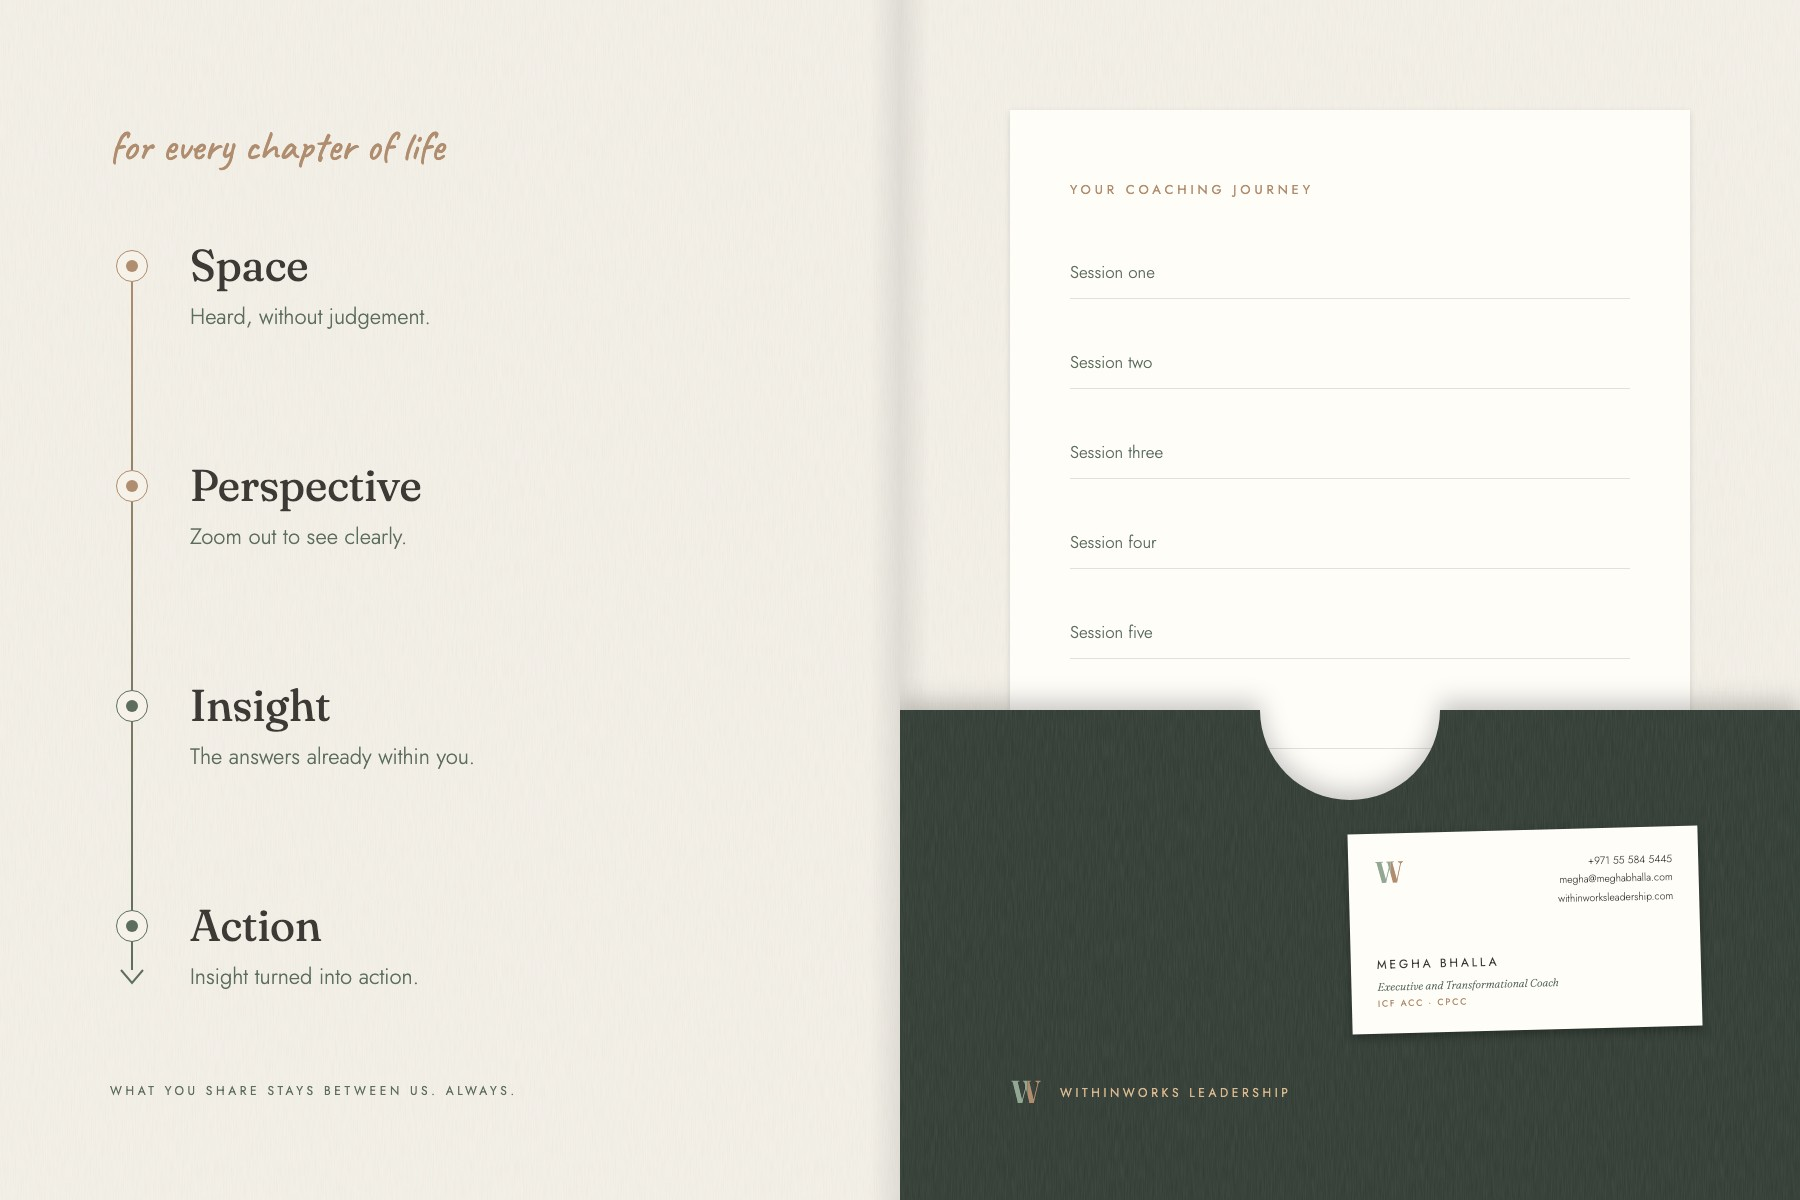
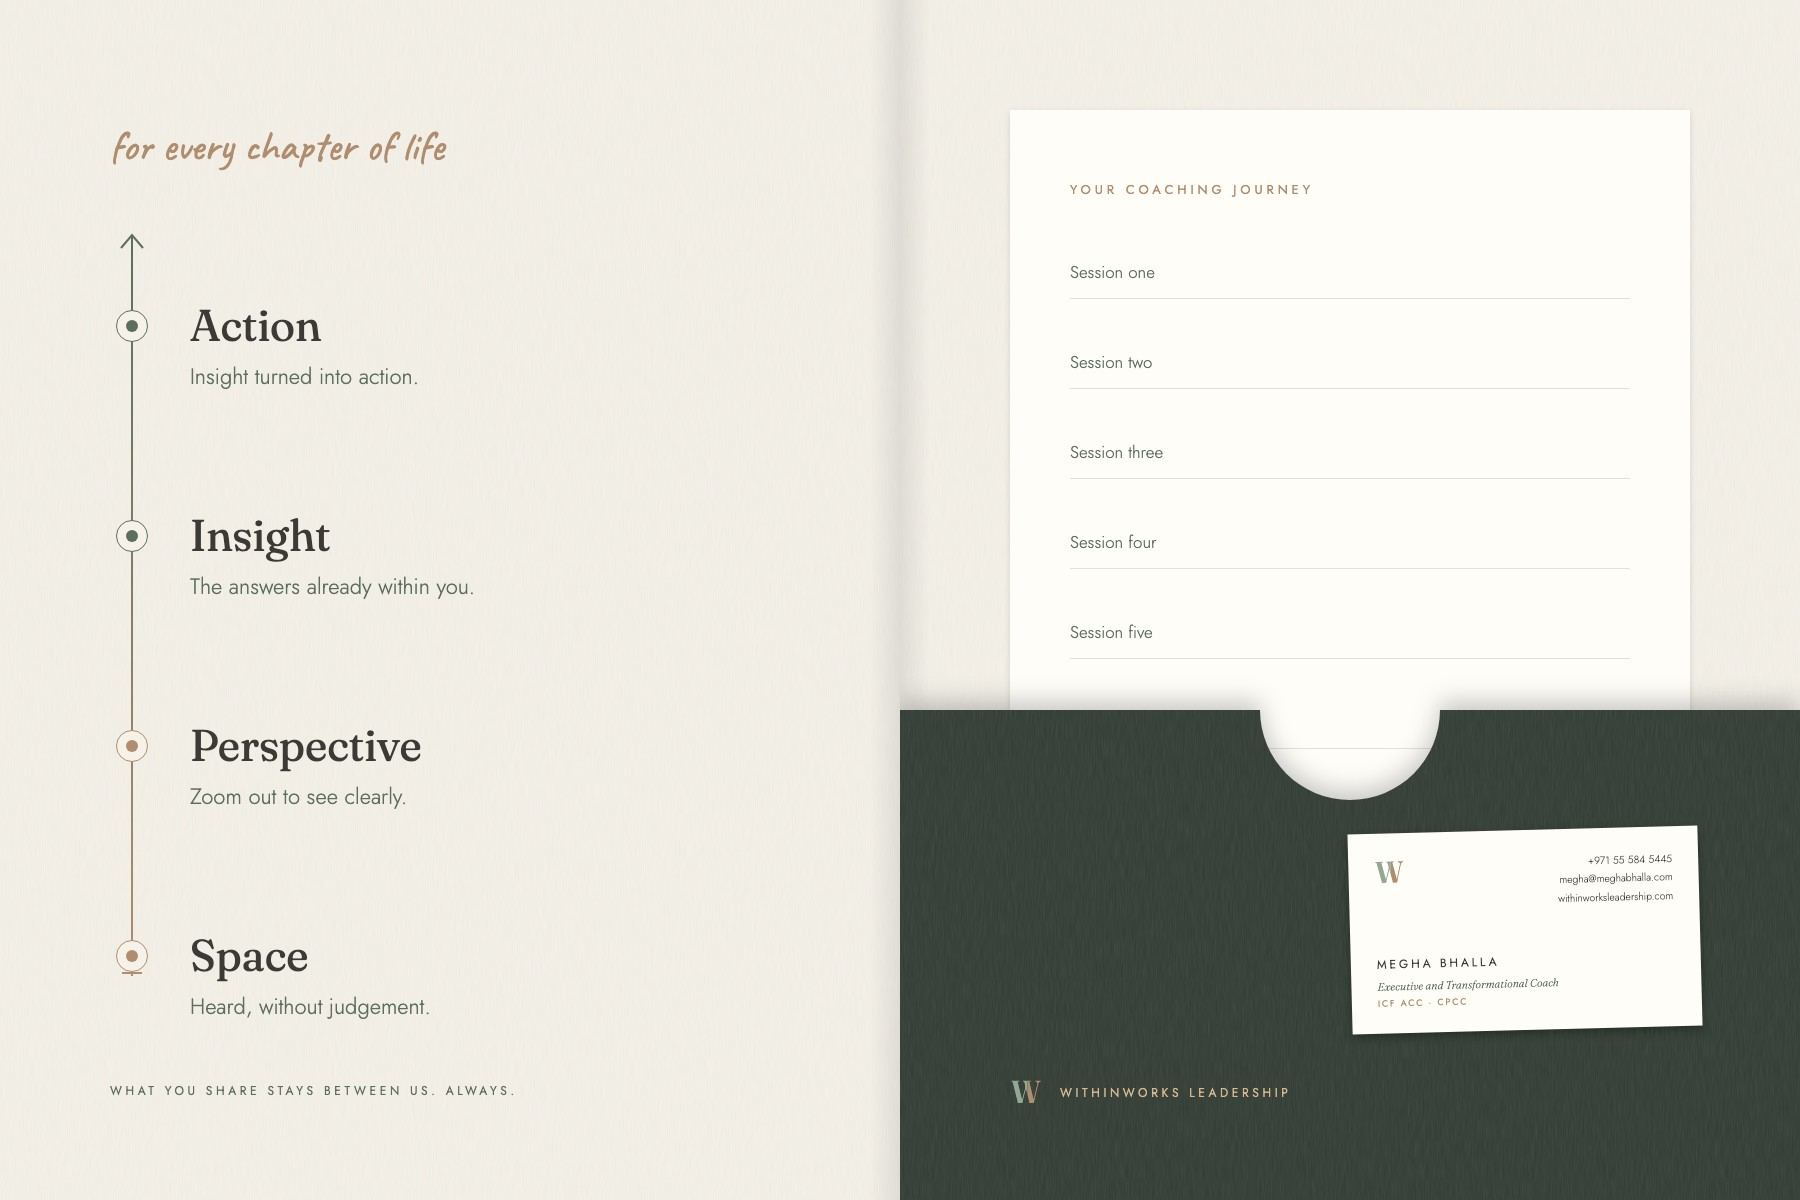
Printables: journey runs from the ground up

diff --git a/printables-test.html b/printables-test.html
@@ -19,14 +19,14 @@
 <header class="top"><div class="shell">
 <a class="brand" href="./"><svg class="mark"><use href="#ww"/></svg><span><b>WithinWorks</b><small>The Brain</small></span></a><a class="crumb" href="./">&larr; Brain</a>
 </div></header>
-<section class="page-hero"><div class="shell"><p class="eyebrow">Printables</p><h1>For the <em>hand</em></h1><p class="lede">A folder for client meetings and a small journal for the sessions. First look, before print files.</p></div></section><section><div class="shell"><div class="card" style="padding:0;overflow:hidden;margin-bottom:28px"><img src="printables/fm-a.jpg?v=1794315065" alt="Folder A, The path: front and back" style="width:100%;display:block">
-<div style="padding:22px 26px"><h3>Folder A, The path: front and back</h3><p>Front: a die-cut S-curve flap opens onto a pearl-green layer; the W and name in gold foil. Back: her words with her name and credentials, the Instagram and website QR codes, and her contact details.</p></div></div><div class="card" style="padding:0;overflow:hidden;margin-bottom:28px"><img src="printables/fi-a.jpg?v=1794315065" alt="Folder A, inside" style="width:100%;display:block">
-<div style="padding:22px 26px"><h3>Folder A, inside</h3><p>The journey from her website on the left: space, perspective, insight, action. On the right, a session sheet and a pocket whose wave edge echoes the front, with a slot for her card.</p></div></div><div class="card" style="padding:0;overflow:hidden;margin-bottom:28px"><img src="printables/fm-b.jpg?v=1794315065" alt="Folder B, The window: front and back" style="width:100%;display:block">
-<div style="padding:22px 26px"><h3>Folder B, The window: front and back</h3><p>Front: an arched window cut into the cover shows her question on the page inside. Back: the same detail system.</p></div></div><div class="card" style="padding:0;overflow:hidden;margin-bottom:28px"><img src="printables/fi-b.jpg?v=1794315065" alt="Folder B, inside" style="width:100%;display:block">
-<div style="padding:22px 26px"><h3>Folder B, inside</h3><p>The pocket carries a small arch notch, so the card is easy to lift out.</p></div></div><div class="card" style="padding:0;overflow:hidden;margin-bottom:28px"><img src="printables/fm-c.jpg?v=1794315065" alt="Folder C, The window in ivory: front and back" style="width:100%;display:block">
-<div style="padding:22px 26px"><h3>Folder C, The window in ivory: front and back</h3><p>The light version: an ivory cover whose arched window shows the forest page inside. Back in ivory with forest QR codes.</p></div></div><div class="card" style="padding:0;overflow:hidden;margin-bottom:28px"><img src="printables/fi-c.jpg?v=1794315065" alt="Folder C, inside" style="width:100%;display:block">
-<div style="padding:22px 26px"><h3>Folder C, inside</h3><p>The same journey and pocket, on ivory.</p></div></div><div class="card" style="padding:0;overflow:hidden;margin-bottom:28px"><img src="printables/journal-closed.jpg?v=1794315065" alt="Journal, “Notes from within”" style="width:100%;display:block">
-<div style="padding:22px 26px"><h3>Journal, “Notes from within”</h3><p>A small A5 journal in the same linen, the W pressed into the cover, a mocha elastic band.</p></div></div><div class="card" style="padding:0;overflow:hidden;margin-bottom:28px"><img src="printables/journal-open.jpg?v=1794315065" alt="Journal, inside" style="width:100%;display:block">
+<section class="page-hero"><div class="shell"><p class="eyebrow">Printables</p><h1>For the <em>hand</em></h1><p class="lede">A folder for client meetings and a small journal for the sessions. First look, before print files.</p></div></section><section><div class="shell"><div class="card" style="padding:0;overflow:hidden;margin-bottom:28px"><img src="printables/fm-a.jpg?v=1794315140" alt="Folder A, The path: front and back" style="width:100%;display:block">
+<div style="padding:22px 26px"><h3>Folder A, The path: front and back</h3><p>Front: a die-cut S-curve flap opens onto a pearl-green layer; the W and name in gold foil. Back: her words with her name and credentials, the Instagram and website QR codes, and her contact details.</p></div></div><div class="card" style="padding:0;overflow:hidden;margin-bottom:28px"><img src="printables/fi-a.jpg?v=1794315140" alt="Folder A, inside" style="width:100%;display:block">
+<div style="padding:22px 26px"><h3>Folder A, inside</h3><p>The journey from her website on the left: space, perspective, insight, action. On the right, a session sheet and a pocket whose wave edge echoes the front, with a slot for her card.</p></div></div><div class="card" style="padding:0;overflow:hidden;margin-bottom:28px"><img src="printables/fm-b.jpg?v=1794315140" alt="Folder B, The window: front and back" style="width:100%;display:block">
+<div style="padding:22px 26px"><h3>Folder B, The window: front and back</h3><p>Front: an arched window cut into the cover shows her question on the page inside. Back: the same detail system.</p></div></div><div class="card" style="padding:0;overflow:hidden;margin-bottom:28px"><img src="printables/fi-b.jpg?v=1794315140" alt="Folder B, inside" style="width:100%;display:block">
+<div style="padding:22px 26px"><h3>Folder B, inside</h3><p>The pocket carries a small arch notch, so the card is easy to lift out.</p></div></div><div class="card" style="padding:0;overflow:hidden;margin-bottom:28px"><img src="printables/fm-c.jpg?v=1794315140" alt="Folder C, The window in ivory: front and back" style="width:100%;display:block">
+<div style="padding:22px 26px"><h3>Folder C, The window in ivory: front and back</h3><p>The light version: an ivory cover whose arched window shows the forest page inside. Back in ivory with forest QR codes.</p></div></div><div class="card" style="padding:0;overflow:hidden;margin-bottom:28px"><img src="printables/fi-c.jpg?v=1794315140" alt="Folder C, inside" style="width:100%;display:block">
+<div style="padding:22px 26px"><h3>Folder C, inside</h3><p>The same journey and pocket, on ivory.</p></div></div><div class="card" style="padding:0;overflow:hidden;margin-bottom:28px"><img src="printables/journal-closed.jpg?v=1794315140" alt="Journal, “Notes from within”" style="width:100%;display:block">
+<div style="padding:22px 26px"><h3>Journal, “Notes from within”</h3><p>A small A5 journal in the same linen, the W pressed into the cover, a mocha elastic band.</p></div></div><div class="card" style="padding:0;overflow:hidden;margin-bottom:28px"><img src="printables/journal-open.jpg?v=1794315140" alt="Journal, inside" style="width:100%;display:block">
 <div style="padding:22px 26px"><h3>Journal, inside</h3><p>Her own tool on every spread: the facts on the left, the story on the right, her question at the foot of the page.</p></div></div></div></section>
 <div class="shell"><nav class="doors"><a href="./">Brain</a><a href="content/">Instagram</a><a href="linkedin/">LinkedIn</a><a href="stories/">Stories</a><a href="reel-cuts/">Reels</a><a href="strategy.html">Strategy</a><a href="megha.html">Megha</a><a href="voice.html">Voice</a><a href="audience.html">Audience</a><a href="brand.html">Brand</a><a href="offers.html">Offers</a><a href="tech.html">Tech</a><a href="photos.html">Photos</a><a href="research.html">Research</a><a href="ideas.html">Ideas</a></nav></div>
 <footer><div class="shell">WithinWorks Leadership &middot; Kept by Mehr Patni &middot; Private working page</div></footer>
